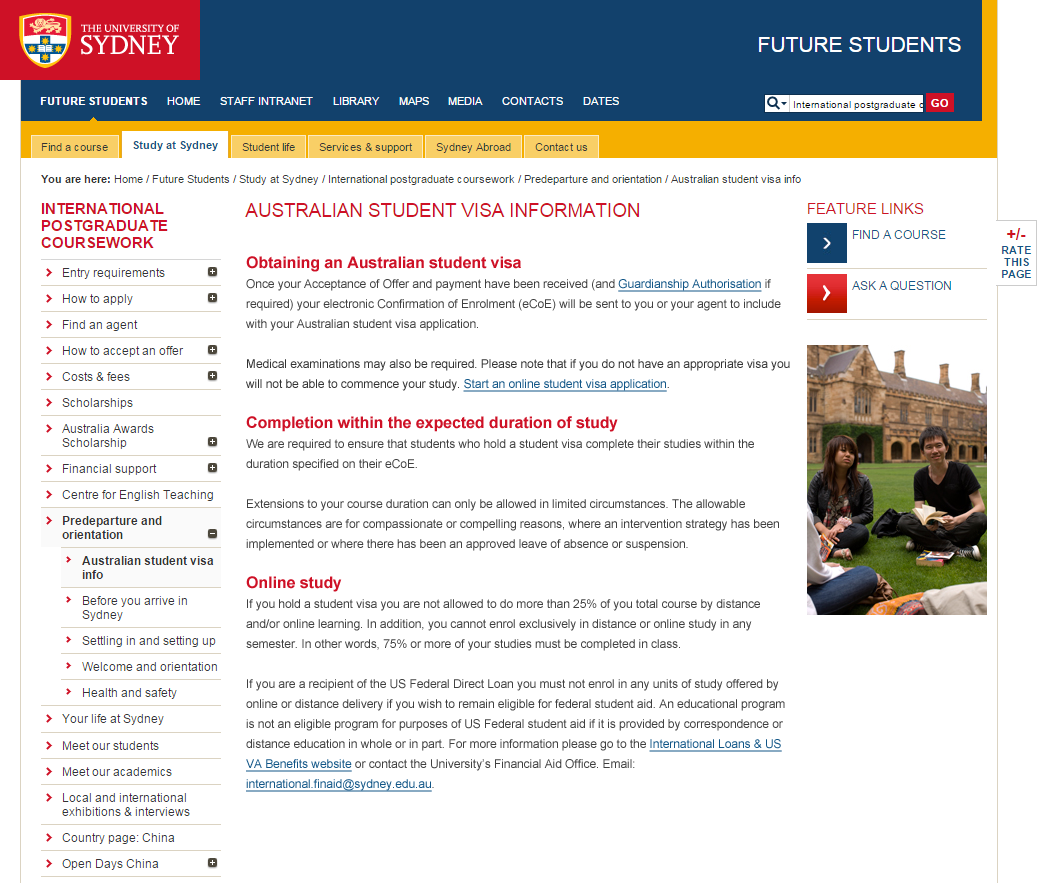
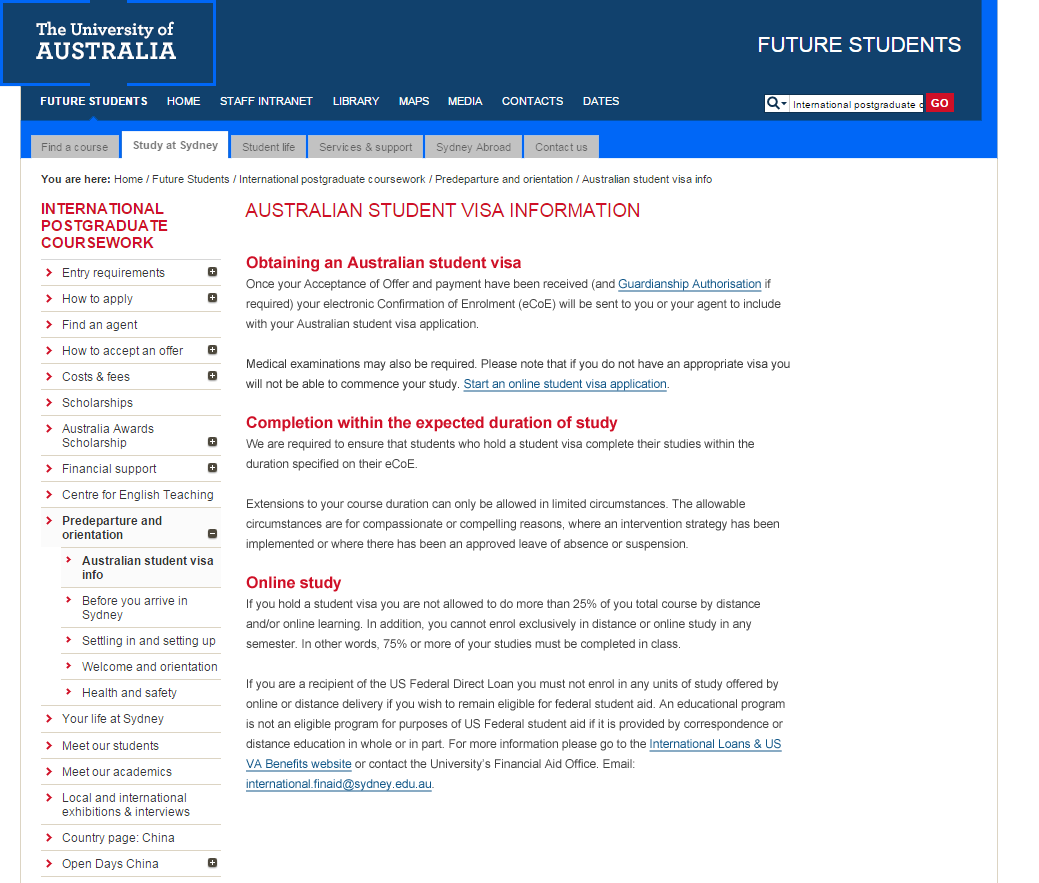
Debrand sydney uni

Changed region(s): [[0.0, 0.0, 0.9856, 0.214], [0.77, 0.214, 0.9548, 0.7033], [0.9548, 0.2446, 1.0, 0.3364]]

diff --git a/pathways/study-in-australia-00.html b/pathways/study-in-australia-00.html
@@ -34,7 +34,7 @@
             <h2>Marie-Louise</h2>
             <ul>
               <li>I am 23, female</li>
-              <li>I'm a 23yr old French student and I'm thinking about completing some of my tertiary 'physics' study in Australia. I'm interested in some of the work that's going on in Sydney University.</li>
+              <li>I'm a 23yr old French student and I'm thinking about completing some of my tertiary 'physics' study in Australia. I'm interested in some of the work that's going on at the University of Australia.</li>
               <li>I want to know:
                 <ul>
                   <li>Course options</li>
@@ -57,7 +57,7 @@
         </div><!-- row -->
         <p>
           <button onClick="location.href='study-in-australia-a01.html'">Scenario A</button> - Start at gov.au to find an institution<br />
-          <button onClick="location.href='study-in-australia-b01.html'">Scenario B</button> - Start at sydney.edu.au as enrolled student, directed to immigration for selecting and applying for a Visa.
+          <button onClick="location.href='study-in-australia-b01.html'">Scenario B</button> - Start at university as enrolled student, directed to immigration for selecting and applying for a Visa
         </p>
         <p><a href="../index.html">Back to index</a></p>
       </div><!-- container -->
